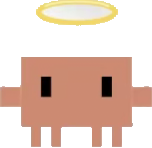
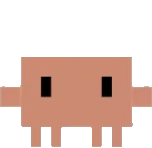
style: square pet + clean top residual from user_photo

Changed region(s): [[0.2368, 0.0, 0.7895, 0.1892]]

diff --git a/app/src/main/assets/pet/index.html b/app/src/main/assets/pet/index.html
@@ -49,7 +49,7 @@
   #pet {
     width: 72px; height: 72px;
     object-fit: cover;
-    border-radius: 50%;
+    border-radius: 0;
     background: transparent;
     cursor: pointer;
     transition: transform 0.2s;
